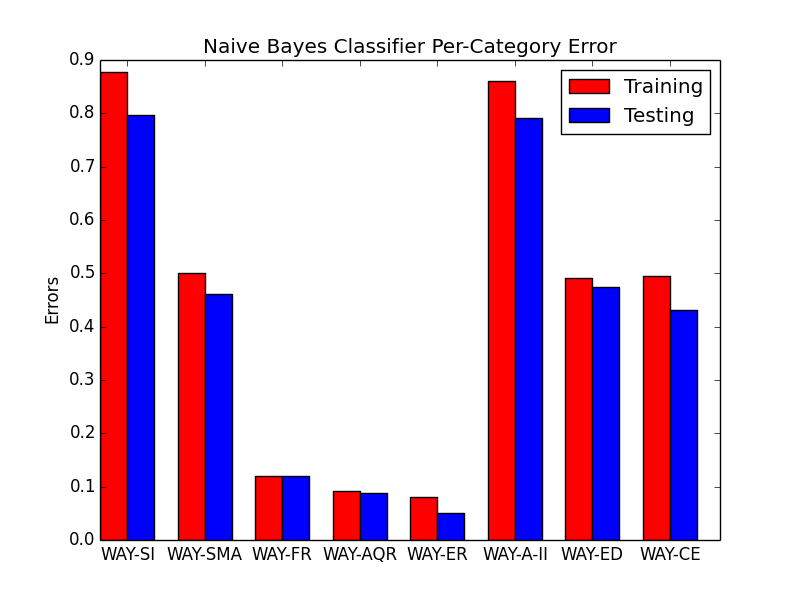
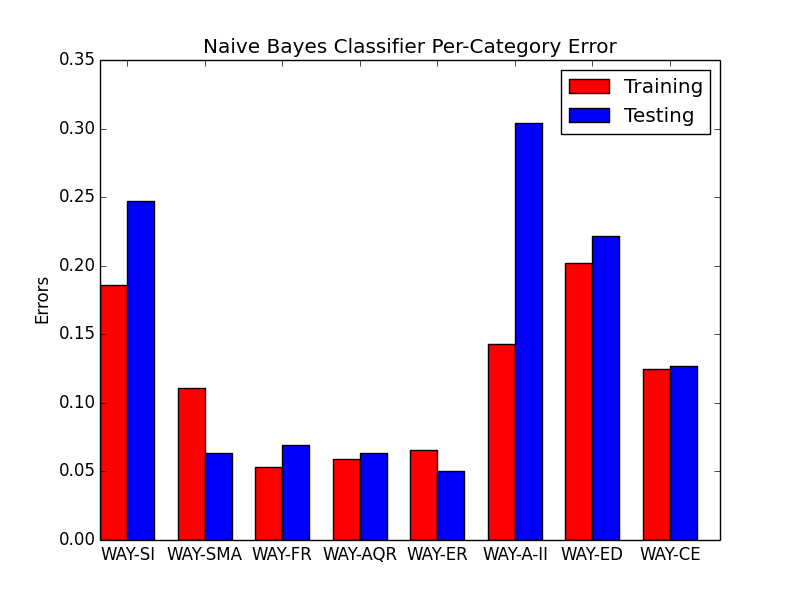
new image and better NB

diff --git a/NaiveBayes.py b/NaiveBayes.py
@@ -74,6 +74,7 @@ class NaiveBayes(Classifier):
                 errors += 1
         errors /= float(m)
         print '{}: Testing error on {} postive examples: {}'.format(self.way, len(pos), errors)
+        return errors
 
     def classify(self, description):
         X = np.zeros((1,self.V))
@@ -84,10 +85,10 @@ class NaiveBayes(Classifier):
                 X[0,self.word_list['NOTAWORD']] = 1
         return self.get_predicted_class(np.asmatrix(X), np.log(self.phi_y), np.log(1 - self.phi_y))
 
-    def get_predicted_class(self,x, log_y, log_y1):
-        total_0 = float(x * self.phi_x0) + log_y
+    def get_predicted_class(self,x, log_y1, log_y0):
+        total_0 = float(x * self.phi_x0) + log_y0
         total_1 = float(x * self.phi_x1) + log_y1
-        if total_0 >= total_1:
+        if total_0 < total_1:
             return 1
         else:
             return 0
